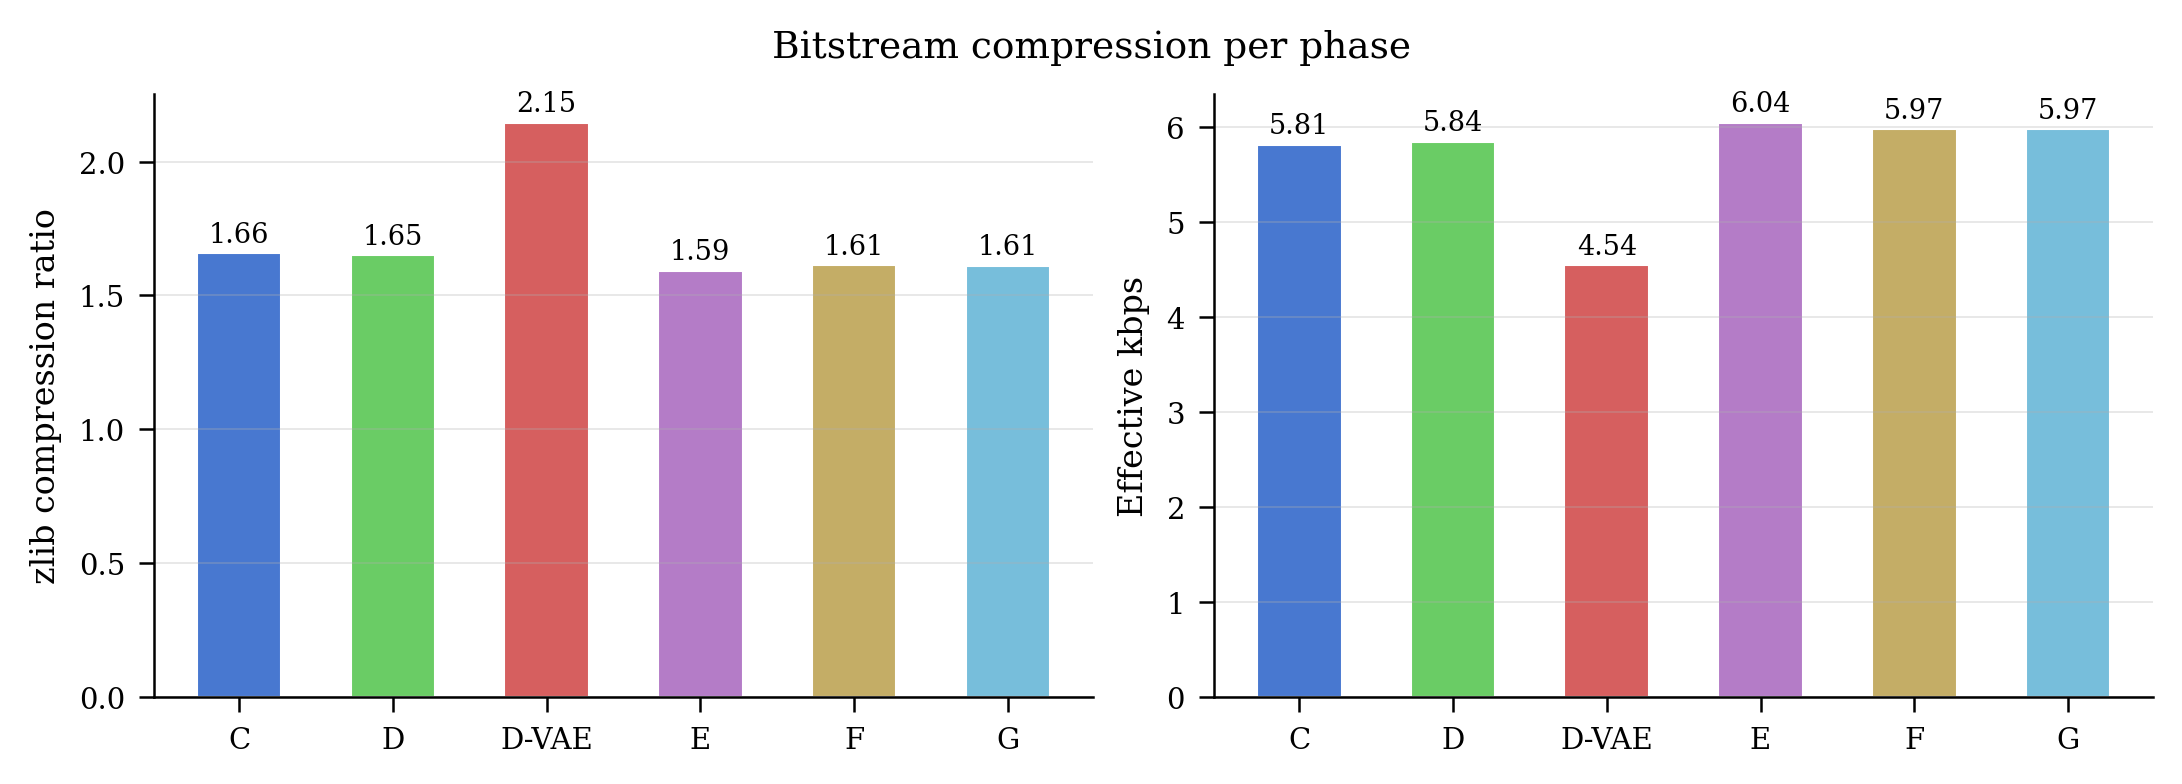
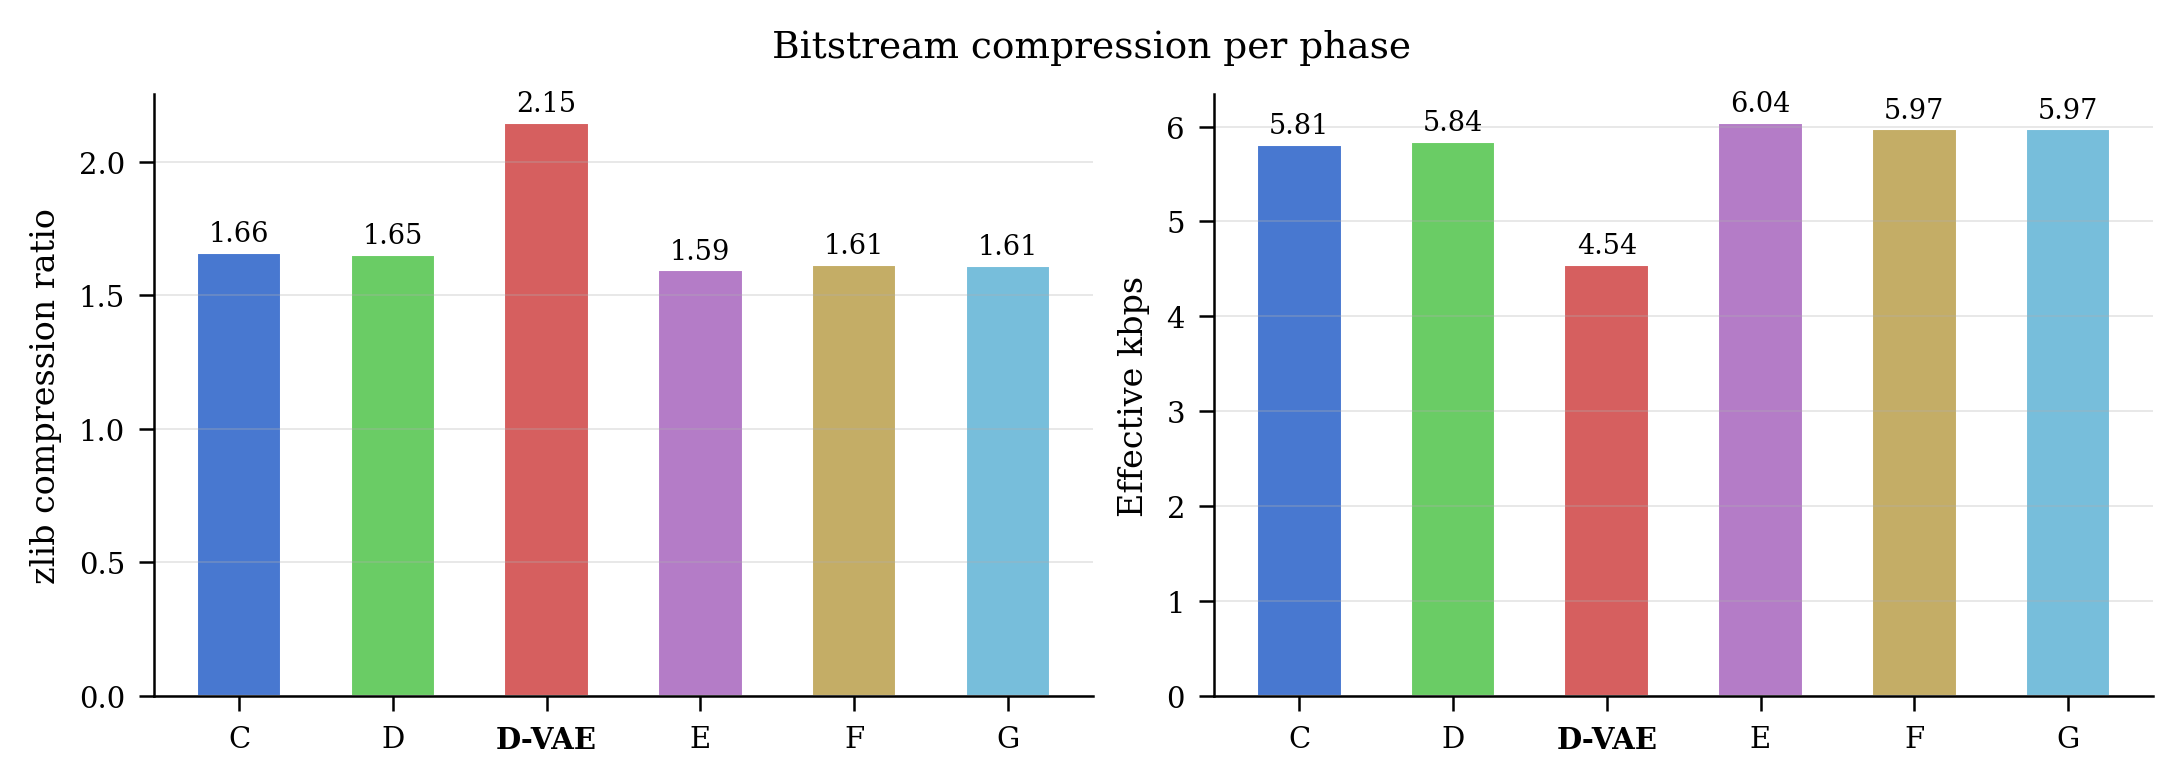
feat: bold D-VAE tick label in fig_06_compression for consistency with entropy-analysis figures

diff --git a/scripts/figures/plots.py b/scripts/figures/plots.py
@@ -259,6 +259,12 @@ def fig_06_compression(data: dict) -> plt.Figure:
                     f'{v:.2f}', ha='center', va='bottom', fontsize=6.5)
         ax.set_xticks(x)
         ax.set_xticklabels(phases)
+        # D-VAE already has its own color, but bolding the tick label keeps
+        # the callout consistent with how it's marked in the other
+        # entropy-analysis figures (fig_08-10).
+        for tick_label, p in zip(ax.get_xticklabels(), phases):
+            if p == 'D-VAE':
+                tick_label.set_fontweight('bold')
         ax.set_ylabel(ylabel)
         ax.grid(True, axis='y')
     fig.suptitle('Bitstream compression per phase', fontsize=9)
